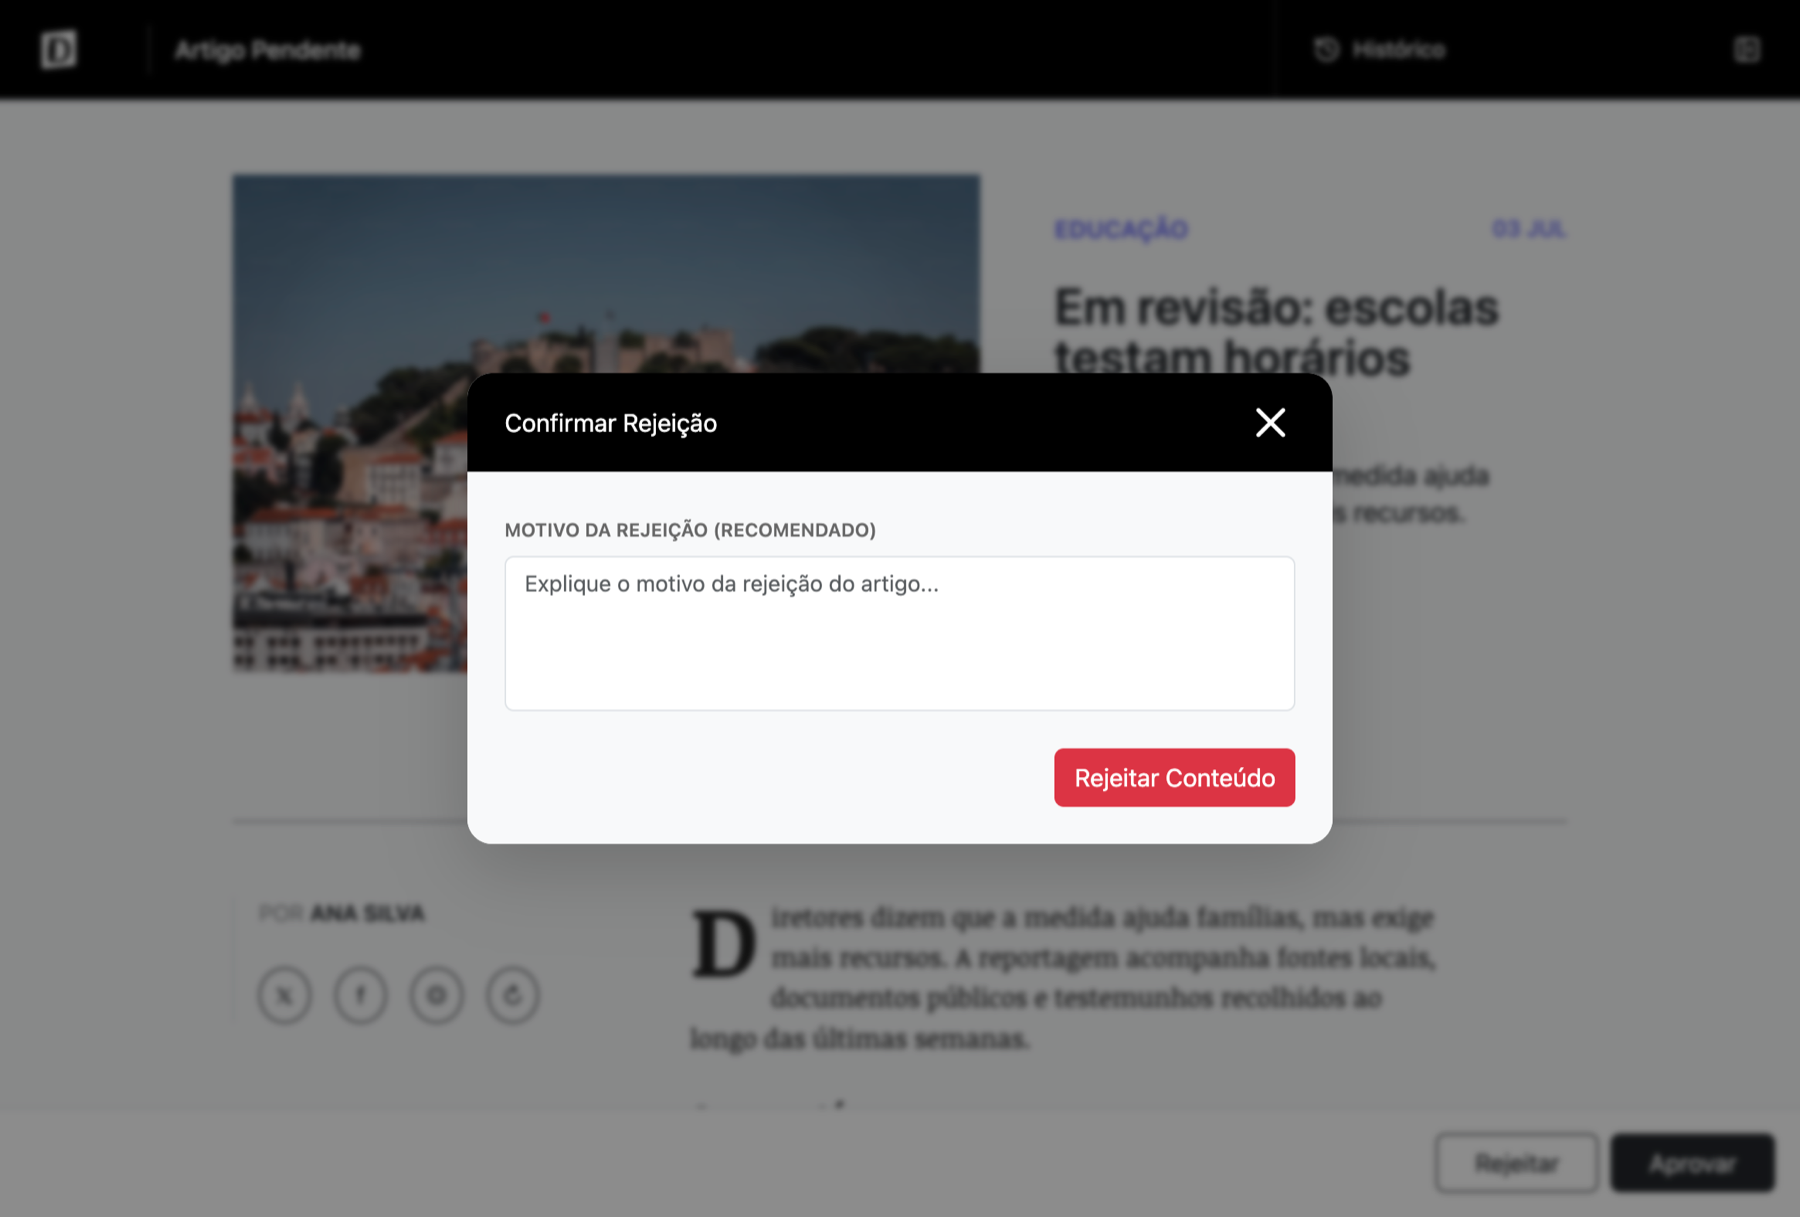
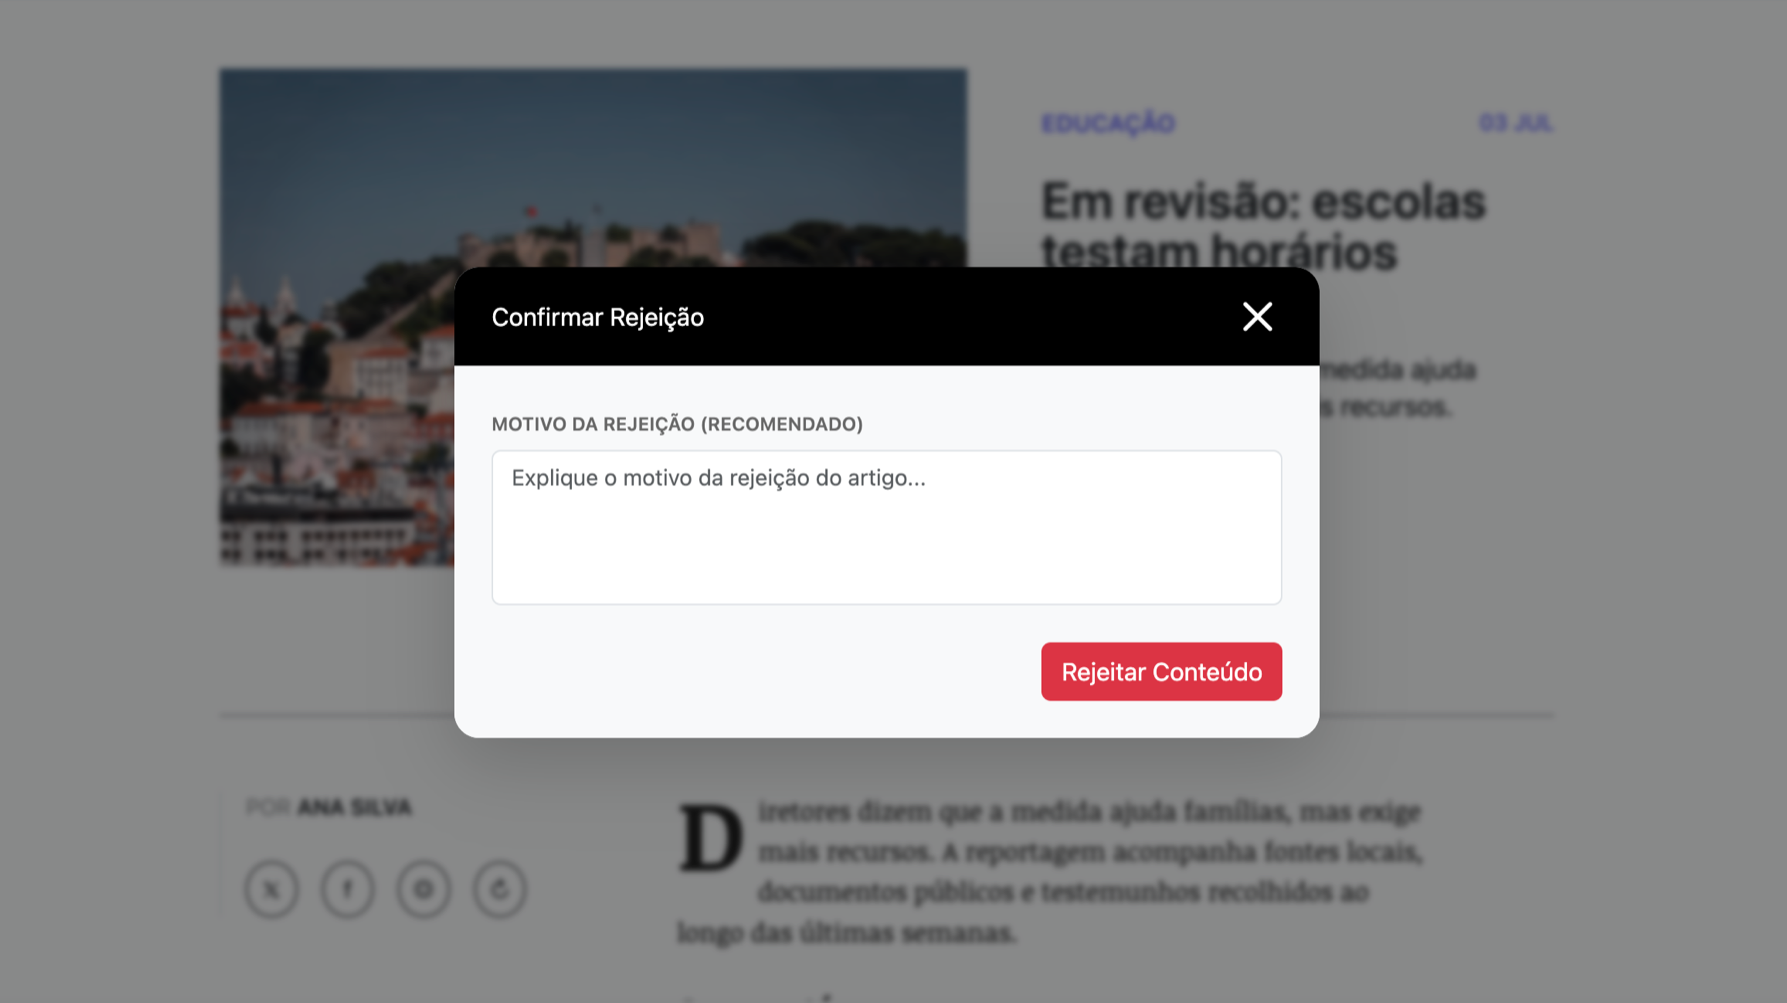
docs: revise documentation based on professors feedback
# Conflicts:
#	docs/report/relatorio.pdf

diff --git a/docs/report/chapters/cap6_backend.tex b/docs/report/chapters/cap6_backend.tex
@@ -400,25 +400,26 @@ class JdbiTransactionManager(
 \end{lstlisting}
 
 Services use this manager to group their persistence into a single unit of work.
-Listing~\ref{lst:tx_usage} shows the rejection of a content item: within one
-\texttt{run\{\}} block the service looks the item up and, only if it exists, records the
-rejection.
+Listing~\ref{lst:tx_usage} shows the completion of a password reset: within one
+\texttt{run\{\}} block the service performs two writes --- setting the user's new password
+and marking the reset request completed.
 
-\begin{lstlisting}[language=Kotlin, caption={Using the transaction manager: a lookup and a write in a single transaction.}, label={lst:tx_usage}]
-fun reject(id: Int, comment: String?, reviewerId: Int): ContentUpdateResult {
-    if (comment.isNullOrBlank()) return failure(ContentError.RejectionCommentRequired)
-    return transactionManager.run { tx ->
-        tx.contentRepository.getById(id) ?: return@run failure(ContentError.ContentNotFound)
-        tx.contentRepository.reject(id, clock.now(), comment, reviewerId)
-        success(Unit)
-    }
+\begin{lstlisting}[language=Kotlin, caption={Using the transaction manager: two writes committed as one unit of work.}, label={lst:tx_usage}]
+transactionManager.run { tx ->
+    // ... resolve the request and user and build the updated user (validation omitted)
+
+    // both repository calls share one handle, so they run in a single transaction
+    tx.userRepository.update(updatedUser, user.id, clock.now())    // set the new password
+    tx.passwordResetRepository.complete(request.id, clock.now())   // close the reset request
+    success(Unit)
 }
 \end{lstlisting}
 
-Both repository calls inside the block run on the same handle, and therefore in the same
-transaction: the lookup and the write that follows it --- which updates the content's
-state and appends an entry to its review history --- either commit together or, if any
-step throws, roll back as a whole, leaving no partial change behind.
+Both writes inside the block run on the same handle, and therefore in the same
+transaction: updating the user's password and closing the reset request either commit
+together or, if any step throws, roll back as a whole. The atomicity matters here --- a
+partial outcome that changed the password without closing the request, or the reverse,
+would leave the account in an inconsistent state.
 
 \section{API Documentation} \label{sec:be_apidocs}
 
@@ -509,13 +510,3 @@ fun `can create and edit category`() {
 }
 \end{lstlisting}
 
-\subsection{Continuous Integration} \label{sec:tests_be_ci}
-
-The backend test suite runs automatically on GitHub Actions~\cite{github_actions}. On
-every push, a workflow runs \texttt{./gradlew check}, which starts the PostgreSQL test
-container, executes the unit and integration suites, and tears the container down. The
-frontend end-to-end suite runs in a separate workflow, described in
-Chapter~\ref{cap:frontend}. Another workflow, triggered on release tags, builds the
-container images and publishes them to the registry (Chapter~\ref{cap:deployment}),
-keeping the packaging of deployable artefacts separate from the test pipelines that run
-on every push.

diff --git a/docs/report/chapters/cap7_frontend.tex b/docs/report/chapters/cap7_frontend.tex
@@ -169,11 +169,27 @@ target (Section~\ref{sec:fe_tests}).
 
 Cross-cutting state is supplied through React \emph{context providers} composed at the
 application root, each exposing its state to the component tree through a dedicated hook.
-Internationalisation is a representative example: the \texttt{I18nProvider} holds the current
-language and a translation function, backed by a single \texttt{translations.json} that maps
-namespaced keys to their Portuguese and English text. Components read it through the
-\texttt{useI18n} hook and reference keys rather than hard-coded strings, so the whole
-interface can be re-languaged from one place (Listing~\ref{lst:i18n}).
+Internationalisation is a representative example. The \texttt{I18nProvider} holds the current
+language and a translation function \texttt{t}, backed by a single \texttt{translations.json}
+that maps namespaced keys to their Portuguese and English text, and publishes them through a
+context (Listing~\ref{lst:i18n_provider}).
+
+\begin{lstlisting}[language=JavaScript, caption={The \texttt{I18nProvider} resolves a key for the active language and publishes \texttt{t} through a context.}, label={lst:i18n_provider}]
+export function I18nProvider({ children }) {
+    const [lang, setLang] = useState('pt');   // 'pt' | 'en'
+    // resolve the key for the active language, falling back to the key itself
+    const t = (key) => translations[lang]?.[key] || key;
+    return (
+        <I18nContext.Provider value={{ lang, setLang, t }}>
+            {children}
+        </I18nContext.Provider>
+    );
+}
+\end{lstlisting}
+
+Any component then reads it through the \texttt{useI18n} hook and references keys rather than
+hard-coded strings, so the whole interface can be re-languaged from one place
+(Listing~\ref{lst:i18n}).
 
 \begin{lstlisting}[language=JavaScript, caption={Reading translated text through the \texttt{useI18n} hook.}, label={lst:i18n}]
 const { t } = useI18n();
@@ -404,7 +420,8 @@ and~\ref{fig:fe_videos_page}).
 
 \subsection{Search} \label{sec:fe_search}
 
-Readers can search the site through an overlay opened from the header, which offers live
+Readers can search the site through an overlay opened from the header
+(Figure~\ref{fig:fe_search}), which offers live
 suggestions as the query is typed and, on submission, leads to a dedicated results page
 addressable by its own URL (\texttt{/s?q=\ldots}). Both the overlay and the results page
 query the public content endpoint, which matches the search term, case-insensitively, as
@@ -414,6 +431,13 @@ simple --- it is neither a tokenised full-text search nor ranked by relevance, a
 not reach into the article body --- which is adequate for the current scale but leaves
 richer, ranked search (see Chapter~\ref{cap:conclusion}) as a clear avenue for
 improvement.
+
+\begin{figure}[H]
+      \centering
+      \includegraphics[width=\textwidth,height=0.5\textheight,keepaspectratio]{./figures/screenshots/search.png}
+      \caption{Public website --- keyword search.}
+      \label{fig:fe_search}
+\end{figure}
 
 \subsection{Podcast and Episode Pages} \label{sec:fe_podcast}
 

diff --git a/docs/report/chapters/cap5_datamodel.tex b/docs/report/chapters/cap5_datamodel.tex
@@ -45,6 +45,9 @@ enumerated type; these are listed in Appendix~\ref{app:dm_enums}.
 
 \subsection{Users, Sessions, Invites, and Password Resets} \label{sec:dm_identity}
 
+Figure~\ref{fig:dm_identity} presents the User, Session, Invite, and Password Reset Request
+entities and their attributes.
+
 \begin{figure}[H]
       \begin{center}
             \resizebox{\textwidth}{!}{\includegraphics{./figures/er/er_users.png}}
@@ -53,7 +56,6 @@ enumerated type; these are listed in Appendix~\ref{app:dm_enums}.
       \label{fig:dm_identity}
 \end{figure}
 
-Figure~\ref{fig:dm_identity} presents these entities and their attributes.
 A \textbf{User} represents an authenticated member of the editorial team. Each user has a
 role (\textit{ADMIN}, \textit{EDITOR}, or \textit{CONTRIBUTOR}), credentials
 (\texttt{username}, \texttt{email}, and a hashed password), and profile information
@@ -77,6 +79,9 @@ and the relevant timestamps.
 
 \subsection{Content} \label{sec:dm_content}
 
+Figure~\ref{fig:dm_content} presents the Content, Content Block, and Content Block Images
+entities and their attributes.
+
 \begin{figure}[H]
       \begin{center}
             \resizebox{\textwidth}{!}{\includegraphics{./figures/er/er_contents.png}}
@@ -85,8 +90,7 @@ and the relevant timestamps.
       \label{fig:dm_content}
 \end{figure}
 
-The content item and the entities that make up its body are shown in
-Figure~\ref{fig:dm_content}. The \textbf{Content} item is the central entity of the system. Each item has a
+The \textbf{Content} item is the central entity of the system. Each item has a
 \texttt{type}, a \texttt{title}, a \texttt{headline}, and a \texttt{slug}, belongs to a
 category, and progresses through an editorial \texttt{state} (\textit{DRAFT},
 \textit{PENDING\_REVIEW}, \textit{APPROVED}, or \textit{REJECTED}). Approval and publication
@@ -109,6 +113,9 @@ and its \texttt{position} within the gallery.
 
 \subsection{Authors, Tags, and Moderation History} \label{sec:dm_editorial}
 
+Figure~\ref{fig:dm_editorial} presents the Content Authors, Content Tags, and Content History
+entities and their attributes.
+
 \begin{figure}[H]
       \begin{center}
             \resizebox{\textwidth}{!}{\includegraphics{./figures/er/er_content_related.png}}
@@ -117,11 +124,17 @@ and its \texttt{position} within the gallery.
       \label{fig:dm_editorial}
 \end{figure}
 
-These three entities are shown in Figure~\ref{fig:dm_editorial}.
 \textbf{Content Authors} associates a content item with the users that wrote it, each with a
 \texttt{role} of \textit{primary} or \textit{secondary}; a content item has at most one
 primary author. \textbf{Content Tags} likewise associates a content item with its tags,
 again distinguishing a single primary tag from the secondary ones.
+
+Both are \emph{association entities} - they resolve the many-to-many relationships between a
+content item and, respectively, its authors and its tags, and each carries the \texttt{role}
+attribute that qualifies the link. The primary author supplies the article's main byline and
+the primary tag its principal theme, while the secondary authors and tags act as additional
+co-authors and cross-cutting labels; a partial uniqueness rule enforces that at most one of
+each may be marked primary, keeping the principal author and theme unambiguous.
 
 \textbf{Content History} records the moderation trail of a content item. Each entry captures
 the action taken (\textit{APPROVED} or \textit{REJECTED}), an optional review comment, the
@@ -129,6 +142,8 @@ instant it was performed, and the user who performed it. This provides an audita
 the approval workflow and supplies the mandatory justification attached to a rejection.
 
 \subsection{Categories and Tags} \label{sec:dm_taxonomy}
+
+Figure~\ref{fig:dm_taxonomy} presents the Category and Tag entities and their attributes.
 
 \begin{figure}[H]
       \begin{center}
@@ -138,7 +153,6 @@ the approval workflow and supplies the mandatory justification attached to a rej
       \label{fig:dm_taxonomy}
 \end{figure}
 
-Figure~\ref{fig:dm_taxonomy} shows both taxonomy entities.
 A \textbf{Category} organises content editorially and supports a two-level hierarchy through
 a self-relationship: top-level categories have no parent, and subcategories reference their
 parent. Each category has a \texttt{name}, a unique \texttt{slug}, a distinctive
@@ -151,6 +165,8 @@ description, and may also be soft-archived. A single content item may carry seve
 
 \subsection{Media} \label{sec:dm_media}
 
+Figure~\ref{fig:dm_media} presents the Media and Media Credits entities and their attributes.
+
 \begin{figure}[H]
       \begin{center}
             \resizebox{\textwidth}{!}{\includegraphics{./figures/er/er_medias.png}}
@@ -159,7 +175,6 @@ description, and may also be soft-archived. A single content item may carry seve
       \label{fig:dm_media}
 \end{figure}
 
-Figure~\ref{fig:dm_media} shows the media entity and its credits.
 A \textbf{Media} item stores the metadata of an uploaded file --- image, video, or audio ---
 whose binary content is held externally rather than in the database. It records the media
 \texttt{purpose}, its storage location, alternative text, MIME type, size, and an upload
@@ -172,6 +187,9 @@ single person may hold more than one role on the same item.
 
 \subsection{Homepage Curation and Settings} \label{sec:dm_featured}
 
+Figure~\ref{fig:dm_featured} presents the Featured Section, Featured Contents, Navigation, and
+Settings entities and their attributes.
+
 \begin{figure}[H]
       \begin{center}
             \resizebox{\textwidth}{!}{\includegraphics{./figures/er/er_settings.png}}
@@ -180,8 +198,7 @@ single person may hold more than one role on the same item.
       \label{fig:dm_featured}
 \end{figure}
 
-The homepage and public navigation are curated through a few related entities, shown in
-Figure~\ref{fig:dm_featured}. A \textbf{Featured Section} defines an ordered section of the
+A \textbf{Featured Section} defines an ordered section of the
 homepage and has a \texttt{type} and a \texttt{position}; category sections additionally
 reference the category they display. \textbf{Featured Contents} then place individual
 content items within a section, each with a \texttt{position} that fixes its order. The

diff --git a/docs/report/chapters/cap4_architecture.tex b/docs/report/chapters/cap4_architecture.tex
@@ -30,12 +30,12 @@ high-level architecture of the system.
 The system comprises the following main components:
 
 \begin{itemize}
-      \item \textbf{Frontend} (React + TypeScript) - a single-page application (SPA)
+      \item \textbf{Frontend} (React + TypeScript~\cite{typescript}) - a single-page application (SPA)
             running in the browser, responsible for rendering the public website and the
             backoffice interface. Communicates with the backend via HTTP requests and
             uploads media directly to the object store, bypassing the application server.
 
-      \item \textbf{Web Service} (Spring Boot + Kotlin) - the backend application
+      \item \textbf{Web Service} (Spring Boot~\cite{springboot_docs} + Kotlin~\cite{kotlin}) - the backend application
             responsible for business logic, authentication, and data access. Controls media
             metadata and mediates access to the data layer.
 
@@ -58,14 +58,14 @@ Table~\ref{tab:tech_stack} summarises the technologies adopted in this project.
       \label{tab:tech_stack}
       \begin{tabularx}{\textwidth}{llX}
             \toprule
-            \textbf{Layer} & \textbf{Technology}                                       & \textbf{Rationale}                                                                      \\
+            \textbf{Layer} & \textbf{Technology}  & \textbf{Rationale}                                                                      \\
             \midrule
-            Frontend       & React~\cite{react_docs} (TypeScript~\cite{typescript})    & Component-based UI architecture and strong ecosystem support                            \\
-            Backend        & Spring Boot~\cite{springboot_docs} (Kotlin~\cite{kotlin}) & Robust HTTP API development, JVM ecosystem integration, and type safety                 \\
-            Database       & PostgreSQL                                                & Relational model well-suited for editorial and structured data                          \\
-            Media Storage  & SeaweedFS                                                 & Self-hosted Amazon S3-compatible distributed storage with low operational overhead      \\
-            Data Access    & JDBI                                                      & Lightweight SQL library providing direct query control without ORM overhead             \\
-            Authentication & JWT                                                       & Stateless token validation with short-lived access tokens and long-lived refresh tokens \\
+            Frontend       & React (TypeScript)   & Component-based UI architecture and strong ecosystem support                            \\
+            Backend        & Spring Boot (Kotlin) & Robust HTTP API development, JVM ecosystem integration, and type safety                 \\
+            Database       & PostgreSQL           & Relational model well-suited for editorial and structured data                          \\
+            Media Storage  & SeaweedFS            & Self-hosted Amazon S3-compatible distributed storage with low operational overhead      \\
+            Data Access    & JDBI                 & Lightweight SQL library providing direct query control without ORM overhead             \\
+            Authentication & JWT                  & Stateless token validation with short-lived access tokens and long-lived refresh tokens \\
             \bottomrule
       \end{tabularx}
 \end{table}
@@ -113,6 +113,11 @@ required role:
 \end{itemize}
 
 \section{Authentication and Authorization} \label{sec:arch_auth}
+
+User passwords are never stored in plaintext: only a \emph{bcrypt} hash~\cite{provos1999bcrypt} of each password
+--- a salted, deliberately slow function that resists brute-force and rainbow-table
+attacks --- is kept in the \texttt{password\_hash} column, and at login the submitted
+password is verified against that hash rather than compared directly.
 
 Authentication is implemented using JSON Web Tokens (JWT)~\cite{jwt_spec}. Upon
 successful login, the server generates two tokens: a short-lived access token
@@ -237,9 +242,3 @@ The transitions between these states are as follows:
             resubmitted; an approved item can only be edited by an Editor or
             Administrator.
 \end{itemize}
-
-These transitions are enforced at the API level. Each one is exposed as a dedicated
-endpoint under \texttt{/api/backoffice/contents} and guarded by the
-\texttt{@RequireRole} annotation, so the backend validates that the requesting user's
-role permits the transition before persisting the state change. The permission model
-and the implementation of these checks are described in Chapter~\ref{cap:backend}.

diff --git a/docs/info/info.tex b/docs/info/info.tex
@@ -93,7 +93,7 @@
   \end{tabular}
 
   \vspace{2.5cm}
-  {\large Junho de 2026}
+  {\large Julho de 2026}
 
   \vfill
 \end{titlepage}
@@ -201,6 +201,8 @@ Criar o ficheiro \texttt{code/jvm/.env.staging} com o seguinte conteúdo:
 
 \begin{lstlisting}
 PORT=8180
+
+APP_PUBLIC_URL=http://localhost:8180
 
 S3_PUBLIC_ENDPOINT=http://localhost:${PORT}
 S3_ENDPOINT=http://diariolx-seaweed-s3:8333

diff --git a/docs/report/appendices/apendice_screenshots.tex b/docs/report/appendices/apendice_screenshots.tex
@@ -117,10 +117,9 @@ throughout Chapter~\ref{cap:frontend}. They are grouped by the backoffice
     \begin{center}
         \resizebox{\textwidth}{!}{\includegraphics{./figures/screenshots/reject.png}}
     \end{center}
-    \caption{Backoffice --- content review page.}
+    \caption{Backoffice --- content review page with reject modal.}
     \label{fig:fe_review}
 \end{figure}
-
 
 \begin{figure}[H]
     \begin{center}

diff --git a/docs/report/chapters/cap2_background.tex b/docs/report/chapters/cap2_background.tex
@@ -144,7 +144,7 @@ into the content authoring workflow.
 Regarding \textbf{frontend decoupling}, WordPress and Ghost both tie the presentation
 layer to their own theme-based systems, which constrains the design and technology choices
 available to the frontend. \textit{Diário LX} exposes a dedicated REST API consumed by an
-independent React application, meaning the frontend can be developed, deployed, and
+independent React~\cite{react_docs} application, meaning the frontend can be developed, deployed, and
 replaced entirely without touching the backend.
 
 None of the analysed off-the-shelf solutions fully satisfies the editorial workflow,

diff --git a/docs/report/chapters/cap3_requirements.tex b/docs/report/chapters/cap3_requirements.tex
@@ -52,7 +52,7 @@ Content must be organised using categories and subcategories. The main editorial
       \item \textit{Vídeos}
 \end{itemize}
 
-Each category must support a name, an associated colour, and an automatically generated listing page. Tags must also have dedicated listing pages. The system must allow the creation, editing, and deletion of categories and tags.
+Each category must support a name, an associated colour, and an automatically generated listing page. Tags must also have dedicated listing pages. The system must allow the creation, edition, and deletion of categories and tags.
 
 \subsection{User Management and Permissions} \label{sec:req_users}
 

diff --git a/docs/report/relatorio.tex b/docs/report/relatorio.tex
@@ -246,7 +246,7 @@ In the preparation of this report, GenAI tools were used to assist in structurin
 content, drafting and revising sections, and improving the clarity and consistency of
 the text.
 
-In every case, the generated output was reviewed, validated, and adapted by the authors
+In each case, the generated output was reviewed, validated, and adapted by the authors
 before being incorporated. All architectural, implementation, and validation decisions,
 as well as the analysis and conclusions presented in this document, were made by the
 project authors, who retain full responsibility for the content of this work.